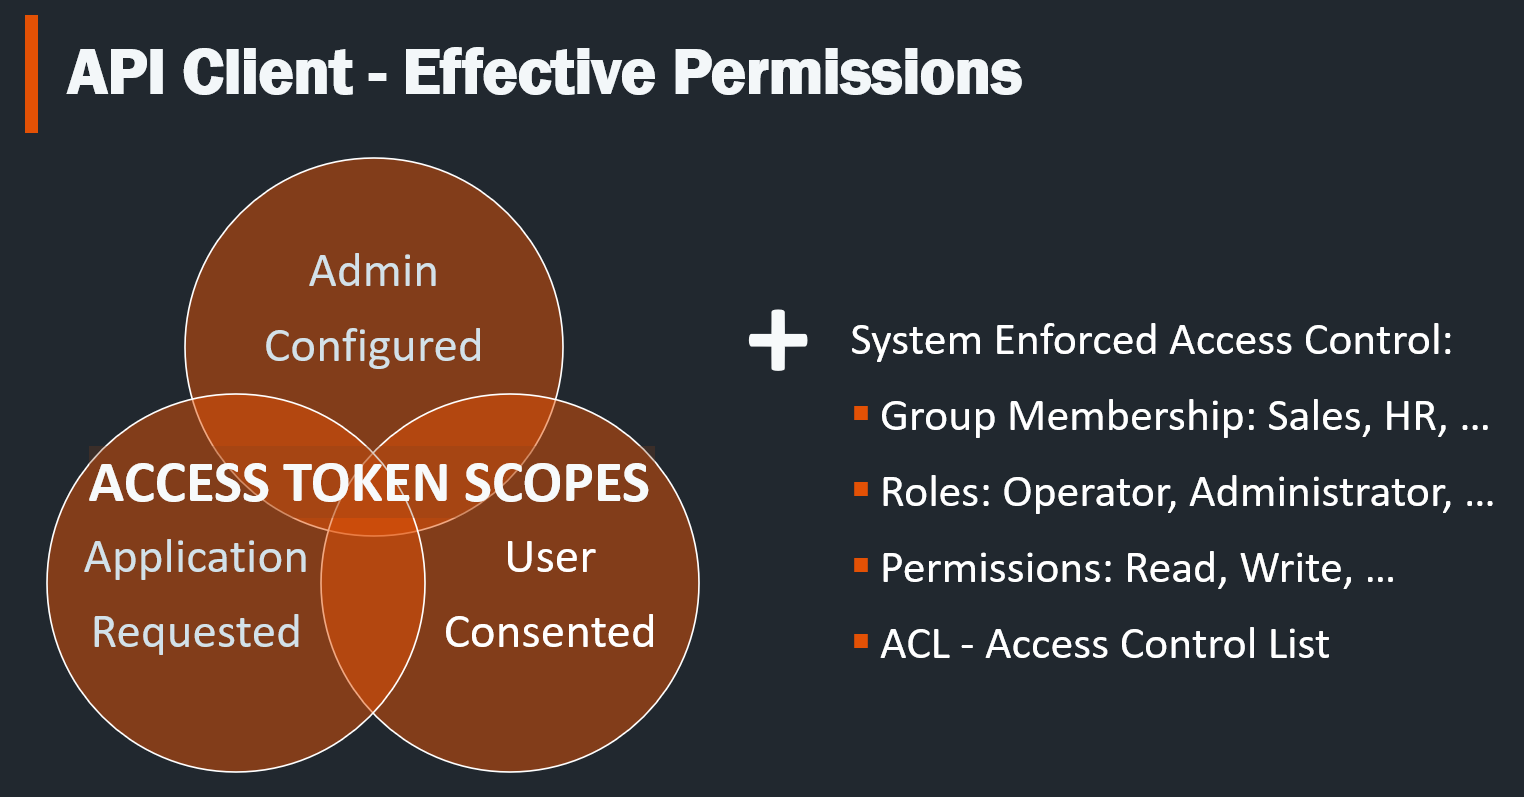
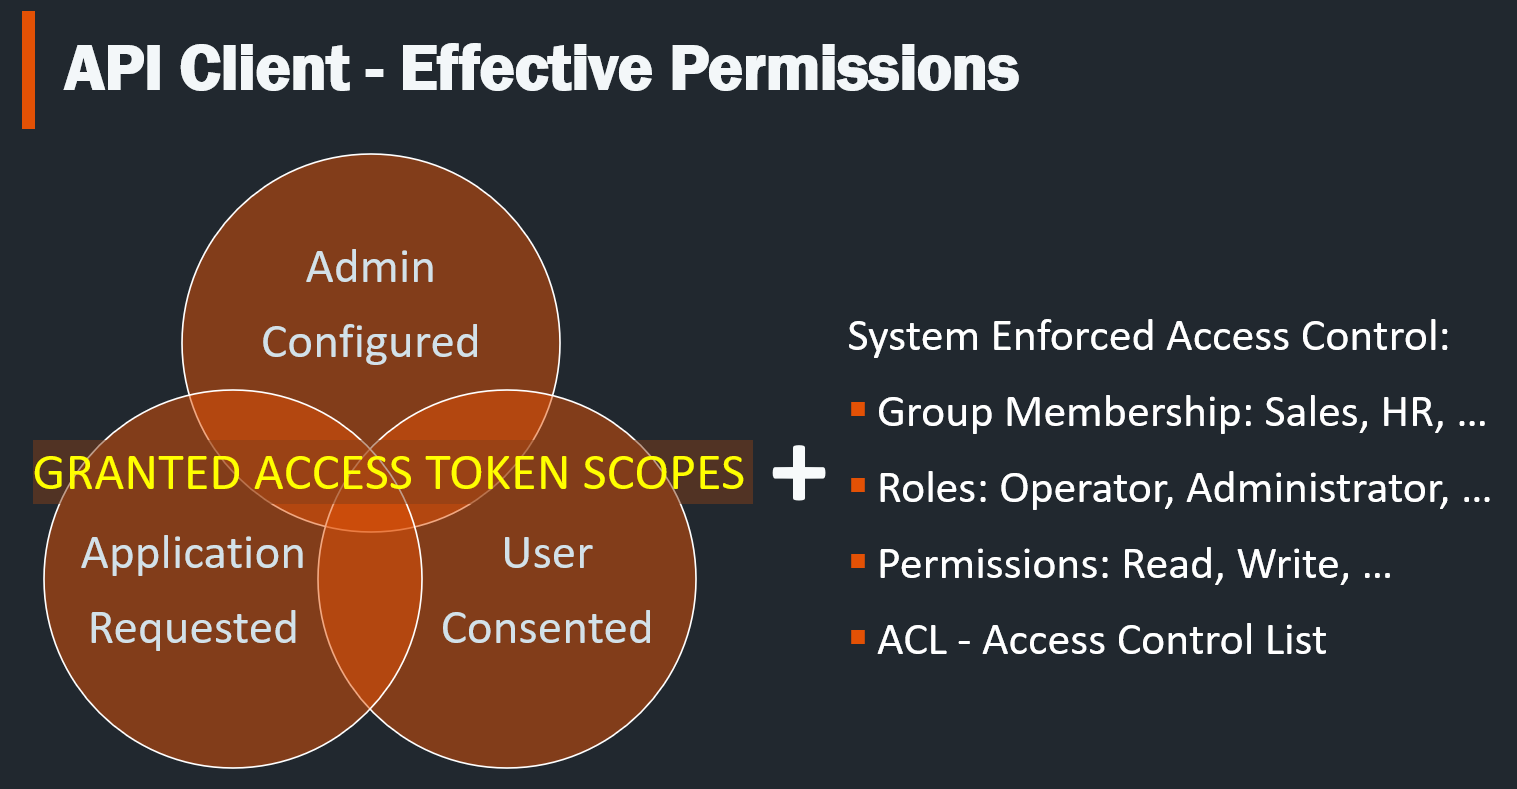
fixes

diff --git a/src/docs/api/guide_overview-of-the-laserfiche-api/index.md b/src/docs/api/guide_overview-of-the-laserfiche-api/index.md
@@ -42,7 +42,7 @@ The Laserfiche API allows you interact with Laserfiche services from low-code an
 
 ## Laserfiche REST API - HTTP Requests
 
-API requests need to include valid information for verifying the identity of a user or a client. Bearer authentication (also called token authentication) is an HTTP authentication scheme that involves security tokens called **bearer Access Tokens** encoded as [JSON Web Token (JWT)](https://datatracker.ietf.org/doc/html/rfc7519). The name “Bearer authentication” can be understood as “give access to the bearer of this token.” Access Tokens are generated generated by the authorization server in response to a login request.
+API requests need to include valid information for verifying the identity of a user or a client. Bearer authentication (also called token authentication) is an HTTP authentication scheme that involves security tokens called **bearer Access Tokens** encoded as [JSON Web Token (JWT)](https://datatracker.ietf.org/doc/html/rfc7519). The name “Bearer authentication” can be understood as “give access to the bearer of this token.” Access Tokens are generated by the authorization server in response to a login request.
 The client must send this token in the **Authorization header** when making requests to the API endpoint:
 
 ```txt

diff --git a/src/docs/api/repository-api-reference/index.md b/src/docs/api/repository-api-reference/index.md
@@ -19,7 +19,7 @@ An **entry** in Laserfiche refers to any item stored in the Laserfiche **Reposit
 
 Each entry can have associated **metadata** such as **fields** and **templates** to store specific pieces of information (like invoice numbers or client names).
 
-Laserfiche Repository API enable programmatic access to [Cloud](https://doc.laserfiche.com/laserfiche/en-us/Content/Overview.htm) and [Self-Hosted](https://doc.laserfiche.com/laserfiche.documentation/12/userguide/en-us/content/intro-getting-started.htm) Laserfiche Repositories:
+Laserfiche Repository API enables programmatic access to [Cloud](https://doc.laserfiche.com/laserfiche/en-us/Content/Overview.htm) and [Self-Hosted](https://doc.laserfiche.com/laserfiche.documentation/12/userguide/en-us/content/intro-getting-started.htm) Laserfiche Repositories:
 
 - [Create, list, import, and export documents and folders](../../guides/documents-and-folders/)
 - [Read/Write entry metadata](../../guides/metadata/)
